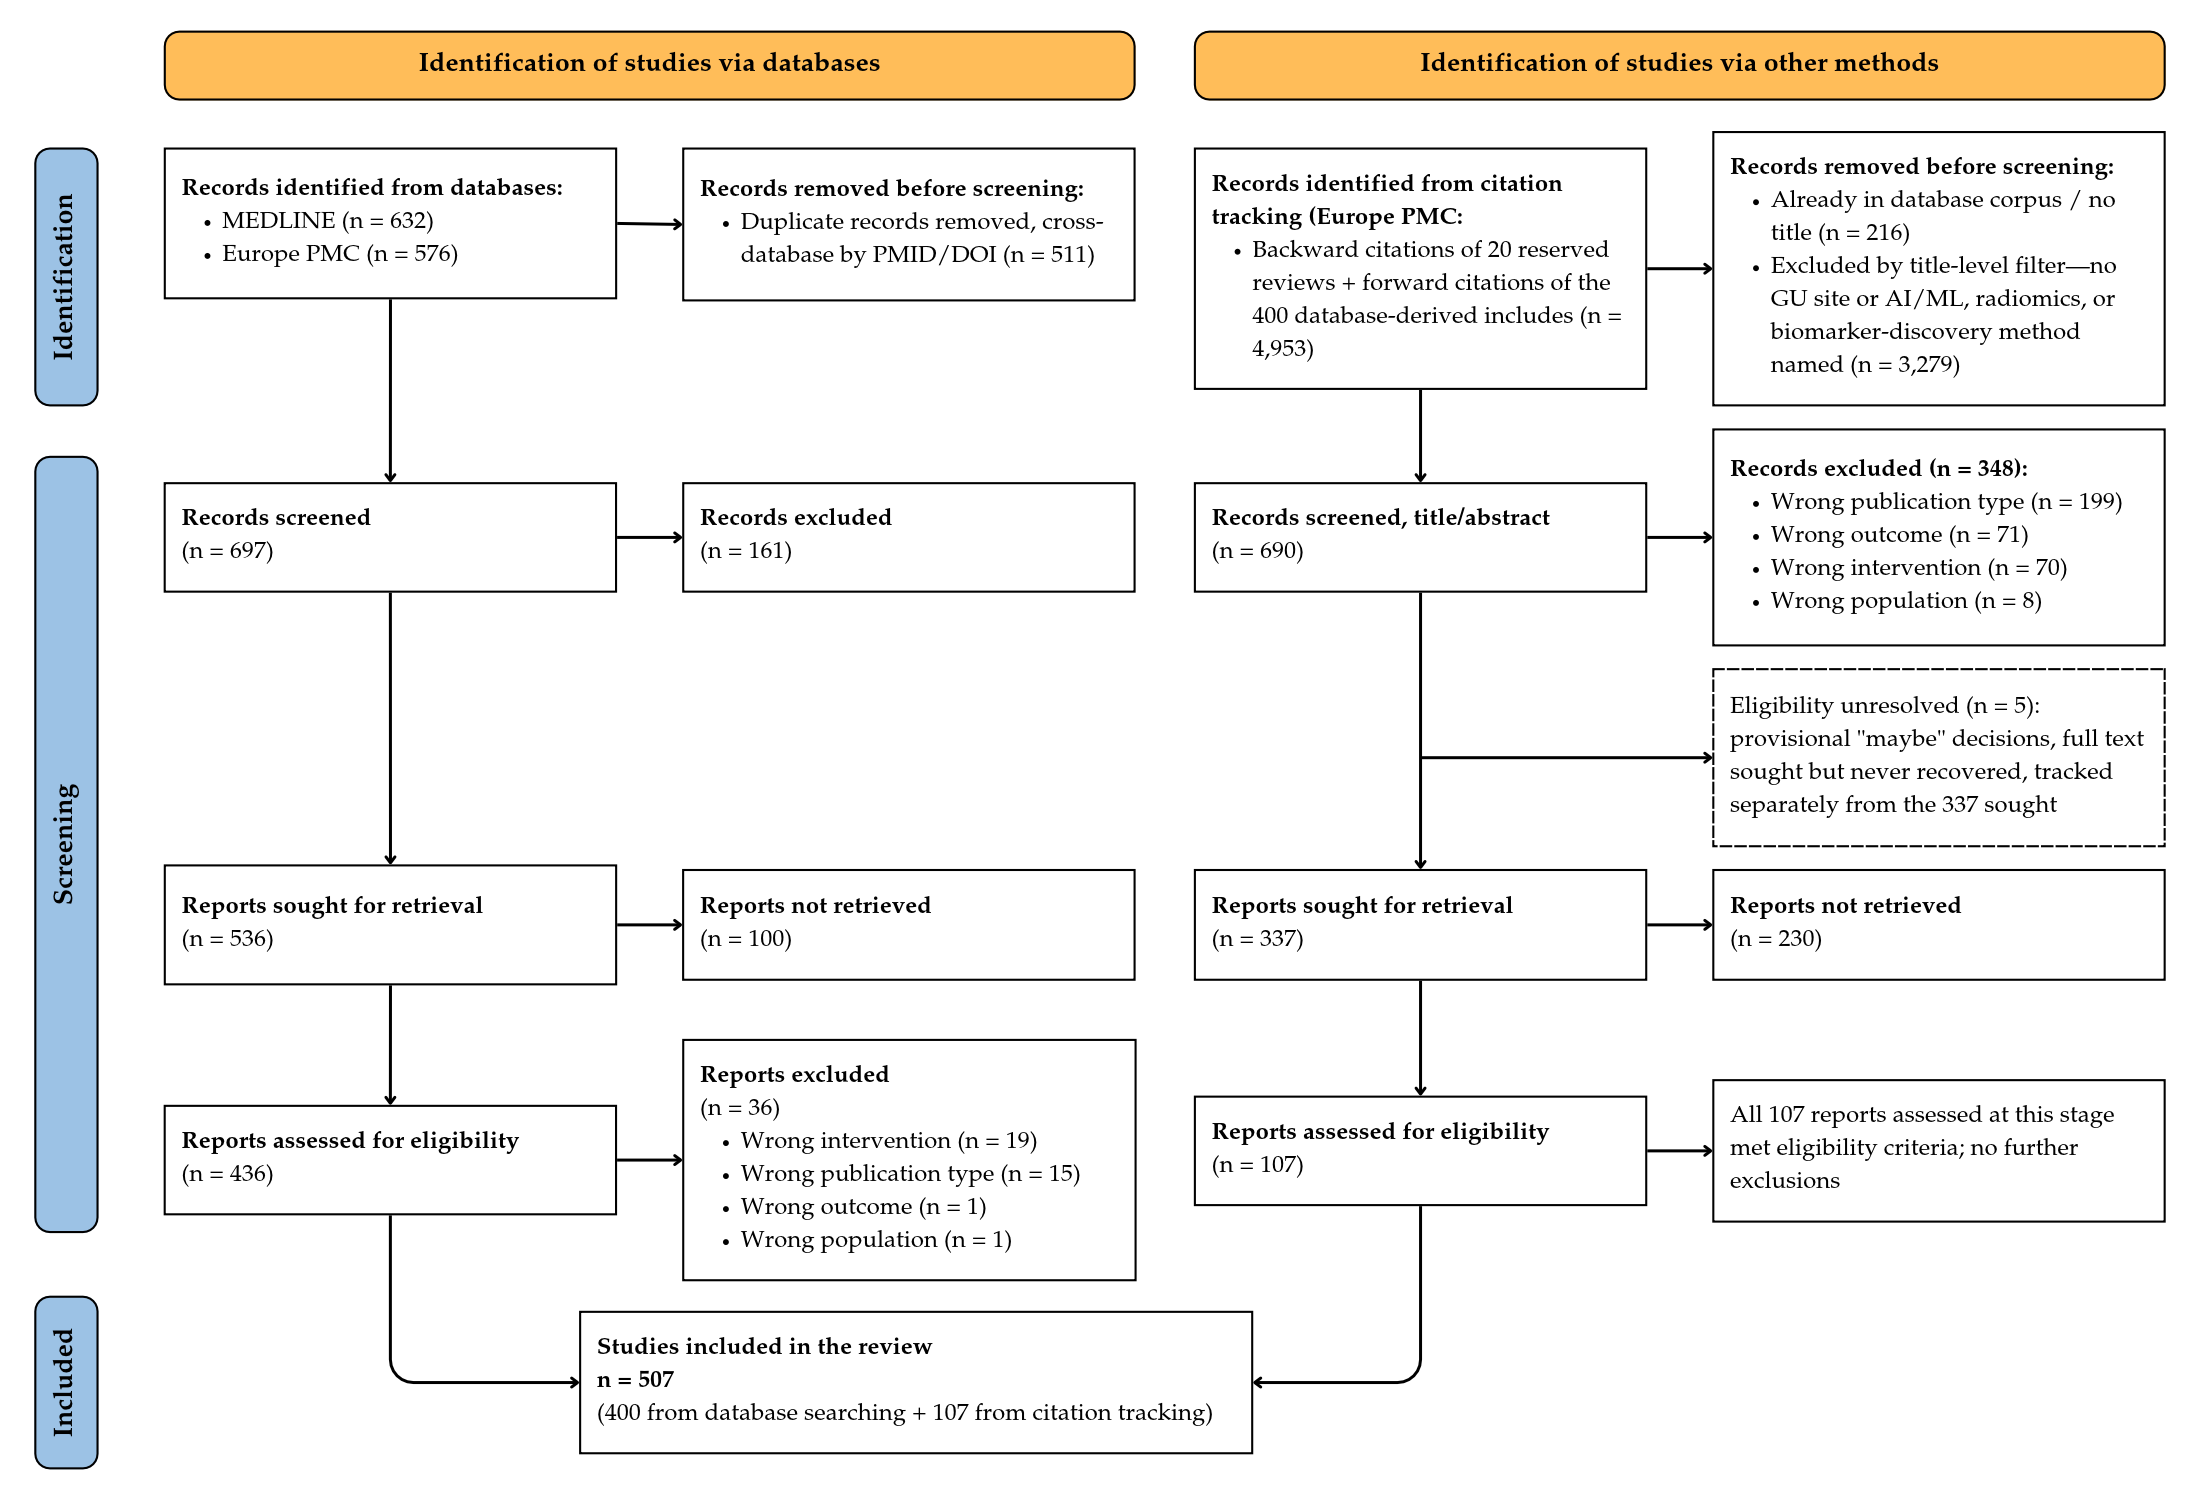
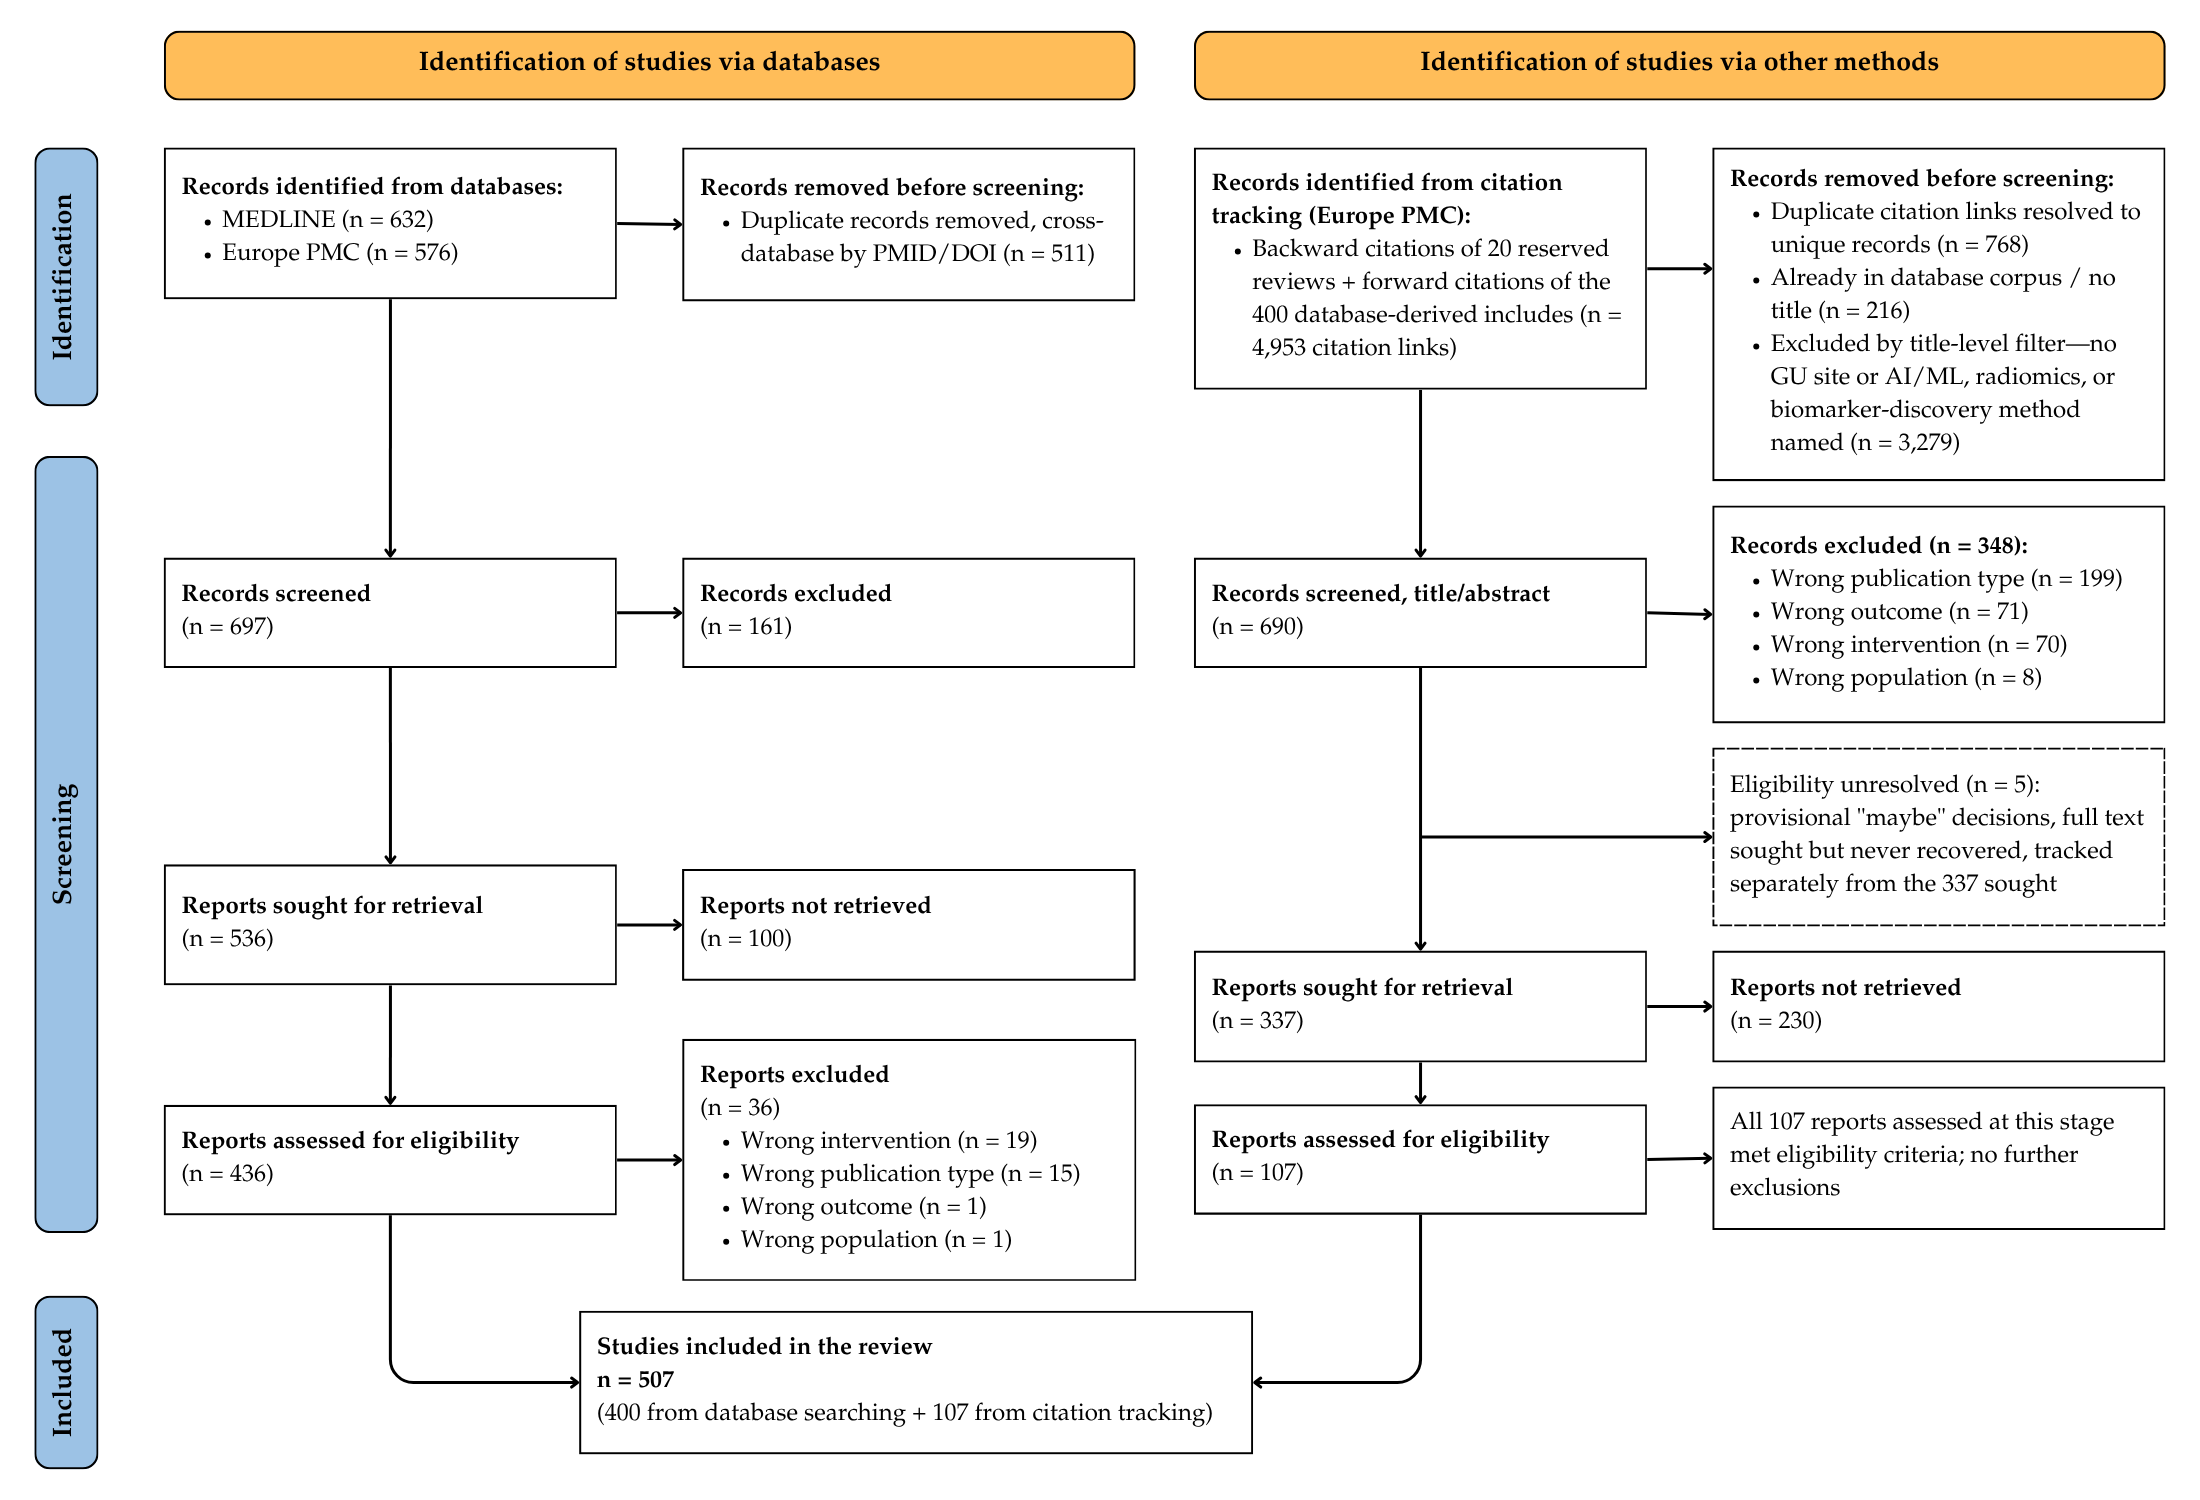
Sync manuscript with post-review consistency fixes: replace internal needs_review jargon with plain review-flag language, correct PROBAST rounding (91%→92%), and fix PRISMA diagram arithmetic (missing 768-record citation-link deduplication step) and unclosed parenthesis.

diff --git a/manuscript/AIBIO_GU_MANUSCRIPT.md b/manuscript/AIBIO_GU_MANUSCRIPT.md
@@ -105,11 +105,11 @@ By MMAT, 13 of 507 studies satisfied all five applicable appraisal criteria, 177
 
 ## Discussion
 
-This integrative review maps, for the first time across all genitourinary tumor sites, an extensive body of 507 studies applying artificial intelligence and machine learning to biomarker discovery. Two findings define the shape of this literature. First, it is concentrated: three sites (kidney, prostate, bladder/urothelial) and two modalities (radiological imaging and transcriptomics) account for the large majority of the evidence, while penile cancer and testicular germ cell tumors remain substantial evidence gaps, with the latter's available studies almost exclusively diagnostic rather than prognostic or predictive. Second, the field is descriptively extensive but translationally narrow — a distinction worth making explicitly, since roughly a third of the extraction dataset carries a permanent needs_review caveat flag rather than an unqualified extraction (see Limitations), and 335 records were never resolved to a full-text eligibility decision, so "extensive" describes the volume of literature mapped, not a claim that every field in that map is unambiguous or that the mapping is exhaustive. Within that mapped corpus, some external validation was present in roughly half of included studies, yet no study demonstrated clinical utility in the sense of measured decision or outcome impact — the closest approach was one study's prospective, radiologist-benchmarked diagnostic-accuracy comparison [14] — code was shared in fewer than one in twenty studies, and only 3% of studies declared adherence to an AI-specific or diagnostic-accuracy reporting guideline.
+This integrative review maps, for the first time across all genitourinary tumor sites, an extensive body of 507 studies applying artificial intelligence and machine learning to biomarker discovery. Two findings define the shape of this literature. First, it is concentrated: three sites (kidney, prostate, bladder/urothelial) and two modalities (radiological imaging and transcriptomics) account for the large majority of the evidence, while penile cancer and testicular germ cell tumors remain substantial evidence gaps, with the latter's available studies almost exclusively diagnostic rather than prognostic or predictive. Second, the field is descriptively extensive but translationally narrow — a distinction worth making explicitly, since roughly a third of the extraction dataset carries a documented review flag rather than an unqualified extraction (see Limitations), and 335 records were never resolved to a full-text eligibility decision, so "extensive" describes the volume of literature mapped, not a claim that every field in that map is unambiguous or that the mapping is exhaustive. Within that mapped corpus, some external validation was present in roughly half of included studies, yet no study demonstrated clinical utility in the sense of measured decision or outcome impact — the closest approach was one study's prospective, radiologist-benchmarked diagnostic-accuracy comparison [14] — code was shared in fewer than one in twenty studies, and only 3% of studies declared adherence to an AI-specific or diagnostic-accuracy reporting guideline.
 
 The dominance of imaging and transcriptomic modalities likely reflects data availability rather than biological priority: multiparametric MRI and CT are embedded in routine urological workups for prostate and renal masses, and public transcriptomic repositories such as TCGA provide large, analysis-ready cohorts that lower the barrier to signature discovery relative to proteomic, methylation, or genomic profiling, which require dedicated sample processing and remain comparatively scarce across all three major sites.
 
-The gap between analytical performance and clinical readiness observed here is consistent with broader concerns about the translation of AI-based prediction models in medicine, where models that perform well in a discovery cohort frequently fail to generalize, and reporting of methods and code remains inconsistent enough to limit independent verification [3,4]. The elevated PROBAST-2019 risk-of-bias rate found across this corpus (91% of appraised studies, an instrument-bound figure revisited later in this section) mirrors similar findings in other prediction-model literatures and is not unique to genitourinary oncology; it reflects, in large part, structural features of discovery-phase research — small or single-center cohorts, unadjusted variable selection prior to validation, and outcome definitions convenient for retrospective public-repository analysis — that are difficult to avoid at the discovery stage but that limit how much weight any single signature should be given before independent, prospectively designed validation. Similarly, the near-absence of code and data sharing in this literature parallels documented barriers to reproducibility in computational pathology, where the gap between laboratory-phase model development and clinical deployment has been attributed in part to insufficient transparency and external testing [64]. Kidney cancer's comparatively higher proportional share of multi-omics work (29/181, 16%) relative to bladder (16/133, 12%) and prostate (17/174, 10%) also illustrates a broader integration challenge: combining data types with different scales, missingness patterns, and batch effects remains a substantial methodological obstacle to producing multi-omics signatures that are both interpretable and reproducible across cohorts [65].
+The gap between analytical performance and clinical readiness observed here is consistent with broader concerns about the translation of AI-based prediction models in medicine, where models that perform well in a discovery cohort frequently fail to generalize, and reporting of methods and code remains inconsistent enough to limit independent verification [3,4]. The elevated PROBAST-2019 risk-of-bias rate found across this corpus (92% of appraised studies, an instrument-bound figure revisited later in this section) mirrors similar findings in other prediction-model literatures and is not unique to genitourinary oncology; it reflects, in large part, structural features of discovery-phase research — small or single-center cohorts, unadjusted variable selection prior to validation, and outcome definitions convenient for retrospective public-repository analysis — that are difficult to avoid at the discovery stage but that limit how much weight any single signature should be given before independent, prospectively designed validation. Similarly, the near-absence of code and data sharing in this literature parallels documented barriers to reproducibility in computational pathology, where the gap between laboratory-phase model development and clinical deployment has been attributed in part to insufficient transparency and external testing [64]. Kidney cancer's comparatively higher proportional share of multi-omics work (29/181, 16%) relative to bladder (16/133, 12%) and prostate (17/174, 10%) also illustrates a broader integration challenge: combining data types with different scales, missingness patterns, and batch effects remains a substantial methodological obstacle to producing multi-omics signatures that are both interpretable and reproducible across cohorts [65].
 
 Site-level differences in modality mix also have a plausible biological and historical basis beyond data availability. The relative parity between imaging and transcriptomics in bladder/urothelial cancer, in contrast to the imaging-dominant pattern in kidney and prostate cancer, coincides with the earlier consolidation of a molecular-subtyping framework for bladder cancer: an international consensus effort integrating 1,750 muscle-invasive bladder cancer transcriptomes converged on six reproducible molecular classes (luminal papillary, luminal non-specified, luminal unstable, stroma-rich, basal/squamous, and neuroendocrine-like) with distinct oncogenic mechanisms and clinical behavior [66]. That a transcriptomic taxonomy of this maturity already existed for bladder cancer before the AI/ML wave mapped here plausibly lowered the barrier for transcriptomics-based biomarker discovery in this site relative to kidney and prostate cancer, where comparably consolidated molecular-subtyping frameworks are less established.
 
@@ -117,7 +117,7 @@ This translational gap is not unique to genitourinary oncology, and comparison w
 
 A related concern, not directly captured by MMAT, PROBAST, or TRIPOD+AI as applied in this review, is the geographic and demographic diversity of the cohorts underlying this corpus. Because country of origin, institutional provenance, and patient demographics were not extracted as a distinct appraisal domain, this review cannot quantify that concern directly from its own data; but the same audit of FDA-cleared AI/ML devices found that premarket demographic reporting was absent for the great majority of clearances [68], and this pattern is consistent with a corpus in which many included studies originate from single-country, single-institution cohorts. A signature discovered and internally validated within one health system's case mix may not transfer cleanly to a population with different disease prevalence, imaging equipment, or laboratory protocols, and this should be treated as an explicit limitation of the underlying evidence base, not only of this review.
 
-The near-uniform elevated PROBAST risk-of-bias rating found across this corpus also warrants a methodological caveat, and a direct one at that: this review used PROBAST-2019, whose four domains — participants, predictors, outcome, and analysis — were designed principally to appraise regression-based prediction models built from a modest, prespecified set of candidate predictors [9]. Many studies in this review instead performed unsupervised or semi-supervised discovery across thousands of transcriptomic, proteomic, or radiomic features before any predictive model was fit, a design that will almost mechanically trigger PROBAST-2019's analysis-domain signalling questions on predictor selection and events-per-variable, regardless of how carefully the discovery pipeline was otherwise conducted. This does not invalidate the finding — genuine risk of overfitting is inherent to high-dimensional feature selection without independent validation — but it does mean that a 91% elevated-concern rate should be read as a description of how far this literature sits from the classical, regression-based prediction-model paradigm PROBAST-2019 was built to appraise, rather than as evidence that these studies are uniformly of poor scientific quality. This limitation is now directly addressable: PROBAST+AI, published in March 2025, extends the same domain structure with signalling questions built explicitly for regression- and AI/ML-based models and is intended by its developers to replace PROBAST-2019 [69]. Re-appraising this corpus against PROBAST+AI, rather than retrofitting an interpretation onto PROBAST-2019 results, is accordingly identified as a priority for the next version of this work rather than attempted here.
+The near-uniform elevated PROBAST risk-of-bias rating found across this corpus also warrants a methodological caveat, and a direct one at that: this review used PROBAST-2019, whose four domains — participants, predictors, outcome, and analysis — were designed principally to appraise regression-based prediction models built from a modest, prespecified set of candidate predictors [9]. Many studies in this review instead performed unsupervised or semi-supervised discovery across thousands of transcriptomic, proteomic, or radiomic features before any predictive model was fit, a design that will almost mechanically trigger PROBAST-2019's analysis-domain signalling questions on predictor selection and events-per-variable, regardless of how carefully the discovery pipeline was otherwise conducted. This does not invalidate the finding — genuine risk of overfitting is inherent to high-dimensional feature selection without independent validation — but it does mean that a 92% elevated-concern rate should be read as a description of how far this literature sits from the classical, regression-based prediction-model paradigm PROBAST-2019 was built to appraise, rather than as evidence that these studies are uniformly of poor scientific quality. This limitation is now directly addressable: PROBAST+AI, published in March 2025, extends the same domain structure with signalling questions built explicitly for regression- and AI/ML-based models and is intended by its developers to replace PROBAST-2019 [69]. Re-appraising this corpus against PROBAST+AI, rather than retrofitting an interpretation onto PROBAST-2019 results, is accordingly identified as a priority for the next version of this work rather than attempted here.
 
 Closing the gap this review has quantified will require specific, achievable changes in how future studies in this space are designed and reported, rather than further discovery-phase output alone. Multi-site, prospective validation cohorts — even modest ones spanning two or three institutions — would address more of the translational shortfall identified here than continued single-center discovery work. Mandatory code and data deposition, already required by a growing number of journals and largely absent from this corpus (code available for only 21 of 507 studies), would allow independent groups to test whether reported performance generalizes without re-running an entire discovery pipeline. And consistent use of TRIPOD+AI or an equivalent AI-specific checklist at the reporting stage, rather than only as a post hoc appraisal exercise as applied here, would make the gap between a discovery-phase signature and a clinically deployable biomarker visible to authors, reviewers, and editors before publication.
 
